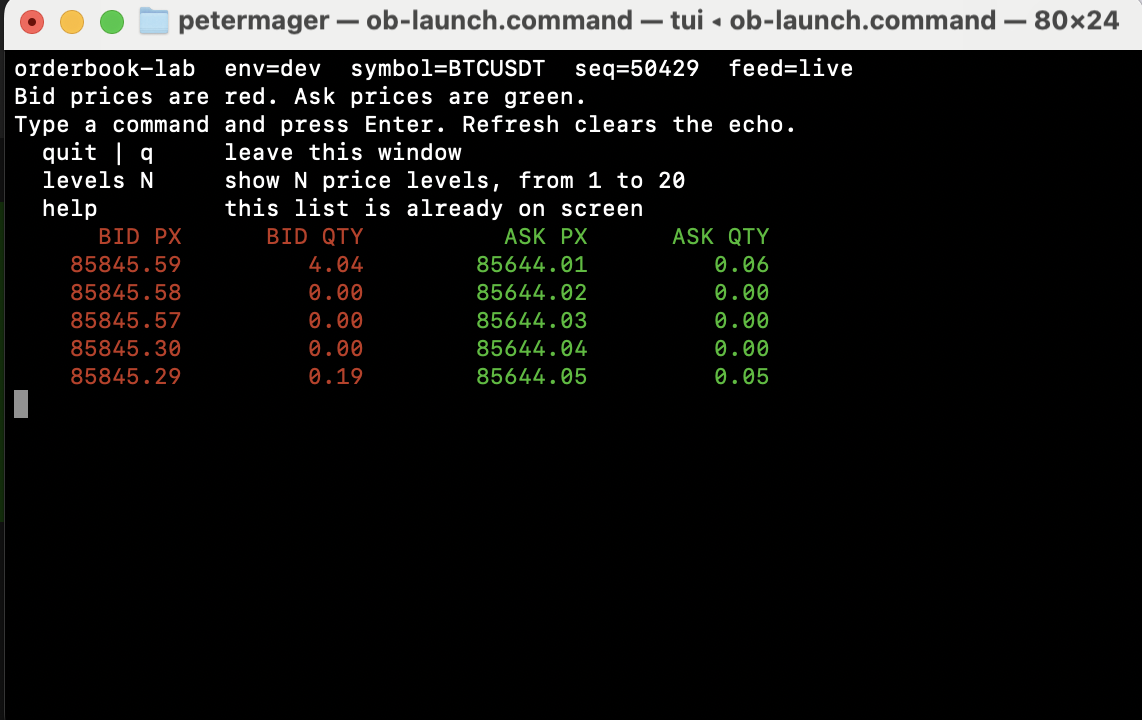
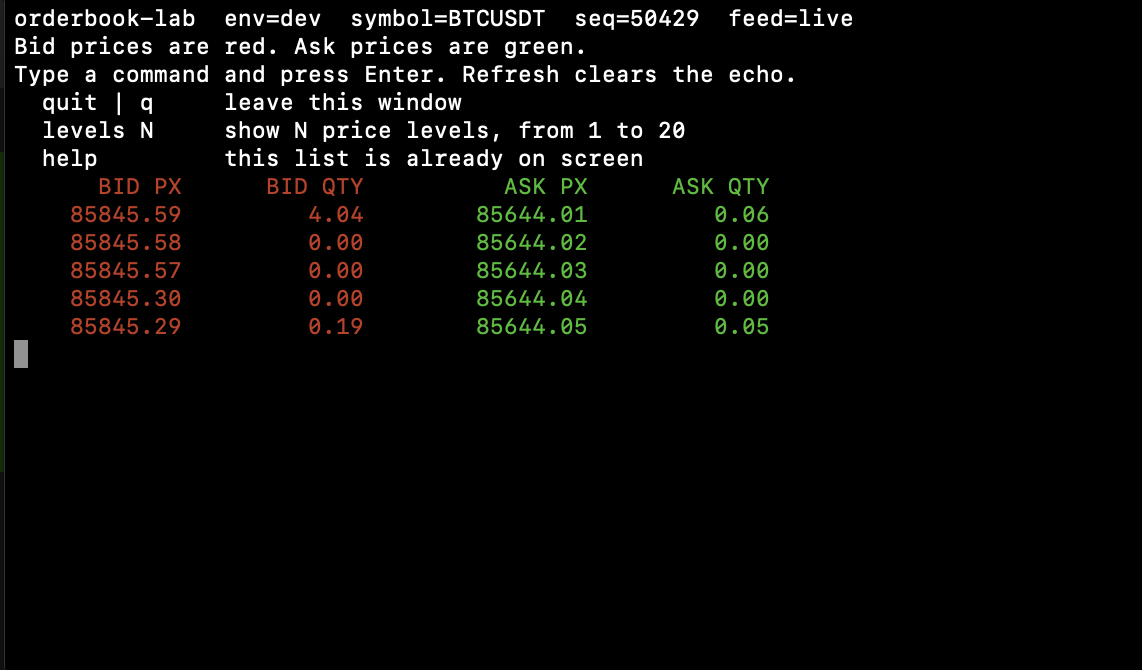
docs: crop the window title and add an architecture diagram
The screenshot no longer includes the macOS title bar.
The README diagram walks one update from Binance to the terminal.

diff --git a/README.md b/README.md
@@ -71,17 +71,54 @@ There is no API key. That host cannot place an order. `make e2e` does not open i
 
 ## How the pieces connect
 
+One picture of the whole path. GitHub draws this diagram. Read it from the left. Nothing in the diagram can place an order.
+
+```mermaid
+flowchart LR
+  subgraph in ["What comes in"]
+    BN["Binance public websocket<br/>btcusdt@depth5@100ms<br/>market data only, no API key"]
+    FX["e2e/fixture.jsonl<br/>same pictures, no network"]
+  end
+
+  CFG["config/dev.json or config/prod.json<br/>ports, paths, symbol, allow_orders"]
+  CTL["python/obctl.py<br/>setup, start, stop"]
+
+  ADP["python/feed_adapter.py<br/>stdlib websocket client<br/>mask every client frame<br/>pong copies the ping<br/>reconnect on drop<br/>each picture starts with DepthReset"]
+
+  TCP["TCP 127.0.0.1<br/>dev :9001 or prod :9101<br/>packed 72-byte Msg"]
+
+  subgraph feedd ["src/feedd.cpp"]
+    ACC["accept loop"]
+    PUB["publish on the hot path"]
+    WAL["WAL append<br/>replay later"]
+    LOG["async log thread<br/>trace id and span id"]
+  end
+
+  RING["mmap ring file<br/>var/dev/bus or var/prod/bus<br/>each reader has its own cursor"]
+
+  subgraph out ["Who reads the ring"]
+    TUI["src/tui.cpp<br/>the window above<br/>red bids, green asks<br/>quit and levels N"]
+    HEAD["src/headless.cpp<br/>make e2e counts"]
+  end
+
+  UNIT["tests/test_core.cpp<br/>and python/test_ws_frames.py<br/>no socket, no exchange"]
+
+  BN --> ADP
+  FX --> ADP
+  CFG --> CTL
+  CTL --> ADP
+  CTL --> ACC
+  ADP --> TCP --> ACC --> PUB
+  PUB --> RING
+  PUB --> WAL
+  PUB --> LOG
+  RING --> TUI
+  RING --> HEAD
+  UNIT -.-> RING
+  UNIT -.-> ADP
 ```
-Binance public websocket, or e2e/fixture.jsonl
-        |
-  python/feed_adapter.py     stdlib only, no pip
-        |  TCP, 72-byte Msg
-  src/feedd.cpp              accept loop, mmap ring, WAL, async log
-        |
-  src/tui.cpp                the window in the picture
-  src/headless.cpp           counts for make e2e
-  tests/test_core.cpp        ring, book, WAL, snapshot replace
-```
+
+Follow one BTCUSDT update. Binance sends the current top 5 bids and top 5 asks. The adapter turns that picture into `Msg` values and writes them to `feedd`. `feedd` appends the same bytes to the write-ahead log and publishes them on the ring. The terminal and `headless` each walk the ring from their own cursor and apply the messages to a book. A `DepthReset` clears one side before the new prices, so an old bid cannot stay above the new asks. If the websocket closes, the adapter reconnects. The terminal keeps the last book and the top line changes to `feed=stalled` until the next picture arrives.
 
 | Path | Role |
 |------|------|

diff --git a/docs/plans/archive/2026-09-22-readme-diagram.md b/docs/plans/archive/2026-09-22-readme-diagram.md
@@ -1,0 +1,30 @@
+## PR Metadata
+- **Type**: docs
+- **Research**: none. GitHub renders a mermaid block in a README. Cropping the screenshot removes the window title. No product behavior changes.
+- **Research summary**: The picture stays the same terminal frame, without the macOS title that showed a username. The diagram is the process path already described in the README and in docs/design/core-architecture.md.
+- **Evidence**: docs only. make test and make e2e were not re-run because no program changed.
+- **Commit**: docs: crop the window title and add an architecture diagram
+- **Files changed**: README.md, docs/images/tui.png
+- **Design docs**: README.md, docs/design/core-architecture.md
+
+# HARNESS Plan: README picture and diagram
+
+| Field | Value |
+|-------|-------|
+| Type | docs |
+| Status | build-complete |
+| Short slug | readme-diagram |
+| Created | 2026-09-22 |
+| Branch | feature/tui-red-bids |
+
+## Steps
+
+### 1. Crop the title bar — `done`
+- **File(s):** docs/images/tui.png
+- **Action:** Cut off the light window title so the username is not in the picture.
+- **Acceptance:** The image starts on the black terminal text.
+
+### 2. Architecture diagram — `done`
+- **File(s):** README.md
+- **Action:** Replace the short text stack with a mermaid diagram of the feed, the ring, and the readers, plus one paragraph that walks one update.
+- **Acceptance:** The README contains a mermaid flowchart and does not name the operator.
